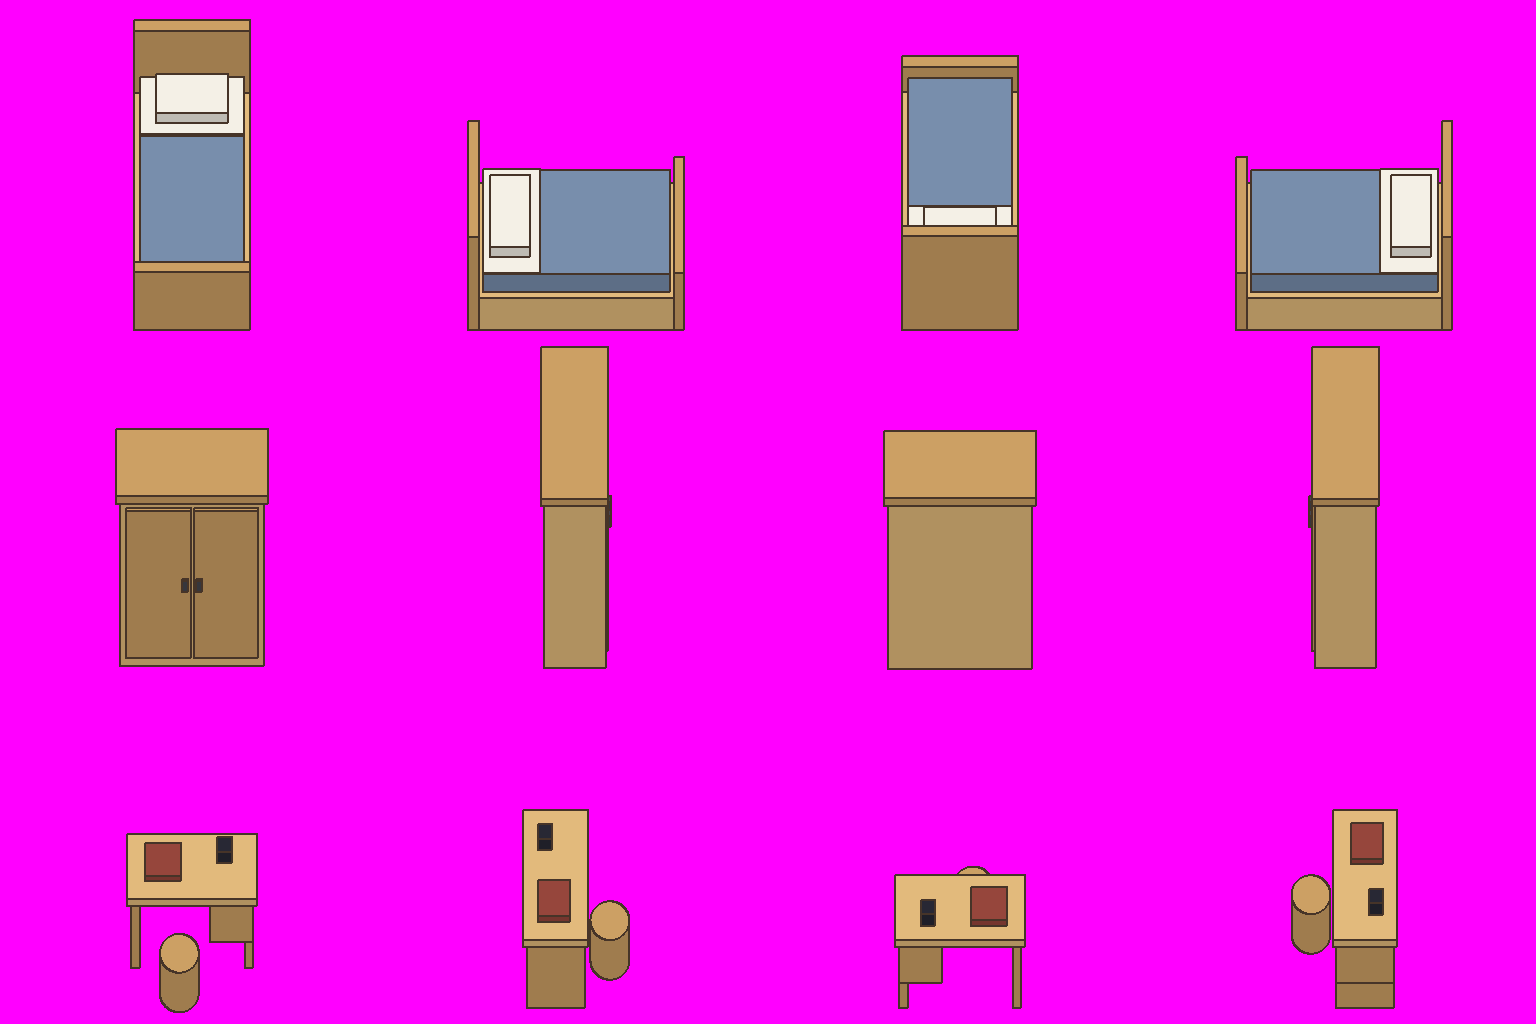
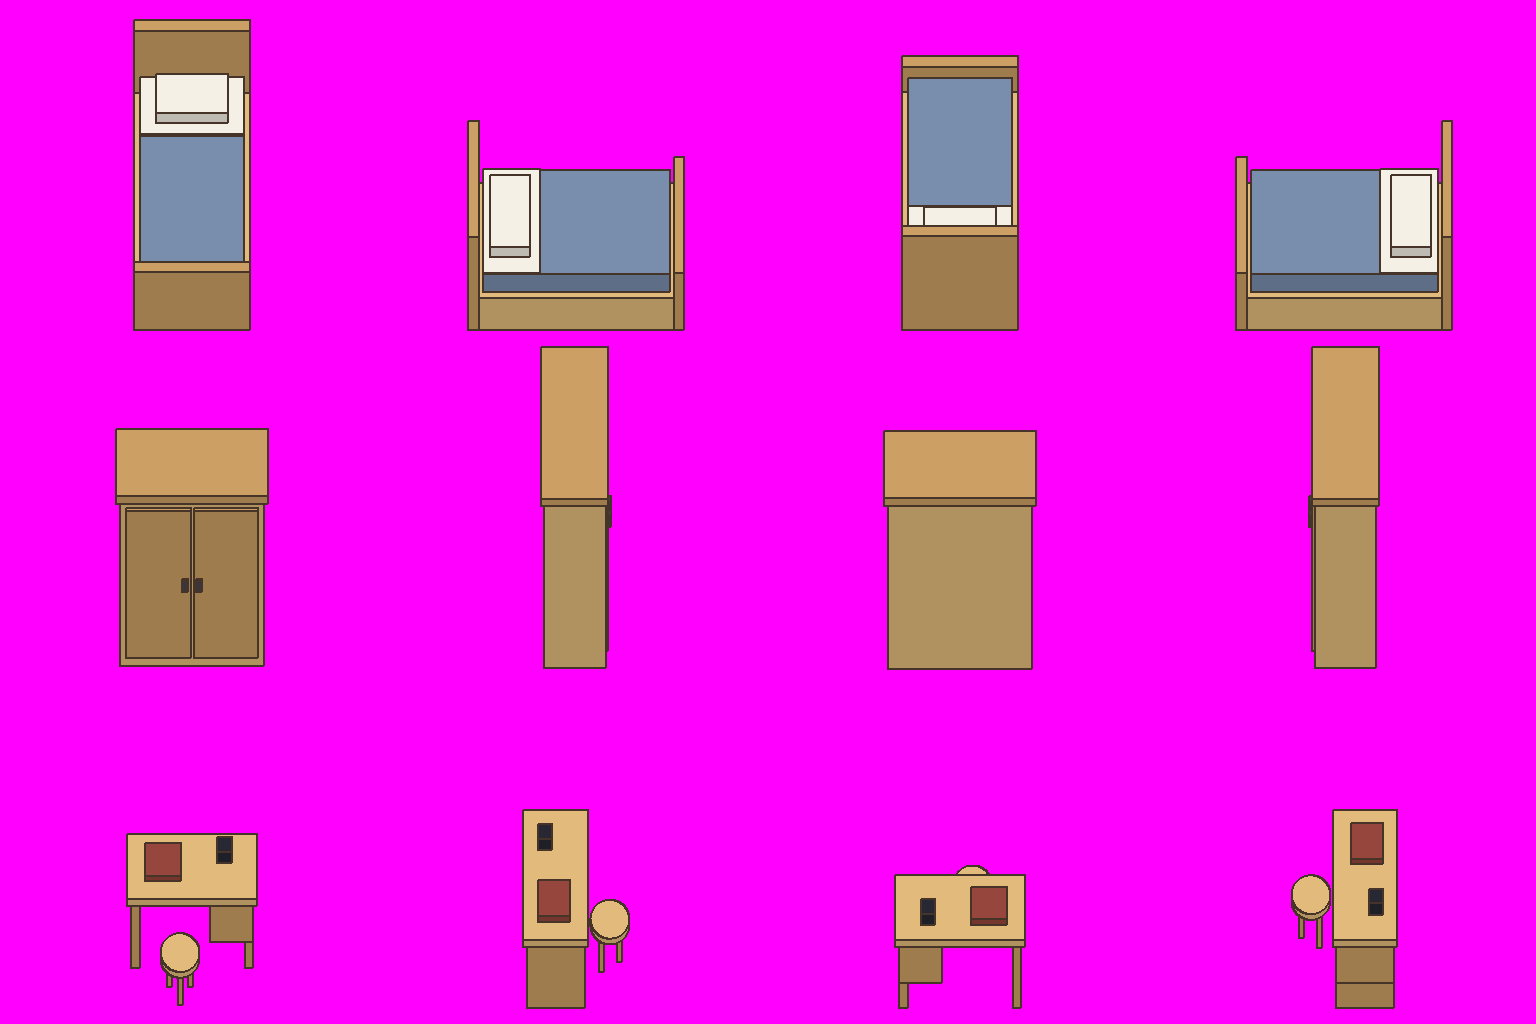
furniture: paint-over round works (overlap 0.93-0.98); sheets B and C accepted; guides A (real stool) and D (denser, bedside table) revised

diff --git a/furniture_guides.py b/furniture_guides.py
@@ -10,13 +10,14 @@ PINE = (226, 186, 124); PINE2 = (204, 160, 100); DARKW = (124, 76, 50); BLUE = (
 BEIGE = (214, 196, 160); BEIGE2 = (196, 176, 140); STONE = (160, 160, 158); BOOK = (150, 70, 60); INK = (40, 40, 52); CLAY = (190, 110, 70); LEAF = (90, 160, 80); RUG = (150, 110, 80); RUG2 = (176, 138, 100); TUBIN = (150, 112, 70); JAR = (200, 190, 170); JAR2 = (120, 150, 110)
 B = lambda u0, u1, v0, v1, z0, z1, c: ('box', u0, u1, v0, v1, z0, z1, c)          # u across the front, v from the back (0) to the front, z up
 CYL = lambda u, v, r, z0, z1, c: ('cyl', u, v, r, z0, z1, c)
+STOOL = lambda u, v: [B(u - 0.18, u - 0.11, v - 0.15, v - 0.08, 0, 0.48, PINE2), B(u + 0.11, u + 0.18, v - 0.15, v - 0.08, 0, 0.48, PINE2), B(u - 0.035, u + 0.035, v + 0.1, v + 0.17, 0, 0.48, PINE2), CYL(u, v, 0.27, 0.48, 0.56, PINE)]   # the same stool everywhere: a round seat on three legs
 PIECES = {
  'bed': (1.6, 3.0, [B(0, 1.6, 0.15, 2.85, 0, 0.45, PINE), B(0.08, 1.52, 0.2, 2.8, 0.45, 0.7, BLUE), B(0.08, 1.52, 0.2, 1.0, 0.7, 0.72, WHITE), B(0.3, 1.3, 0.3, 0.85, 0.72, 0.86, WHITE),
                     B(0, 1.6, 0, 0.15, 0, 1.3, PINE2), B(0, 1.6, 2.85, 3.0, 0, 0.8, PINE2)]),
  'wardrobe': (2.0, 0.9, [B(0, 2.0, 0, 0.86, 0, 2.3, PINE), B(-0.05, 2.05, -0.03, 0.9, 2.3, 2.4, PINE2), B(0.08, 0.98, 0.86, 0.9, 0.15, 2.2, PINE2), B(1.02, 1.92, 0.86, 0.9, 0.15, 2.2, PINE2),
                          B(0.86, 0.94, 0.9, 0.93, 1.1, 1.25, IRON), B(1.06, 1.14, 0.9, 0.93, 1.1, 1.25, IRON)]),
  'desk': (1.8, 0.9, [B(0, 1.8, 0, 0.9, 0.9, 1.0, PINE), B(0.05, 0.17, 0.05, 0.85, 0, 0.9, PINE2), B(1.15, 1.75, 0.05, 0.85, 0.35, 0.9, PINE2), B(1.63, 1.75, 0.05, 0.85, 0, 0.35, PINE2),
-                     B(0.25, 0.75, 0.2, 0.65, 1.0, 1.08, BOOK), B(1.25, 1.45, 0.2, 0.4, 1.0, 1.16, INK), CYL(0.72, 1.2, 0.27, 0, 0.55, PINE2)]),
+                     B(0.25, 0.75, 0.2, 0.65, 1.0, 1.08, BOOK), B(1.25, 1.45, 0.2, 0.4, 1.0, 1.16, INK)] + STOOL(0.73, 1.2)),
  'piano': (2.2, 0.9, [B(0, 2.2, 0, 0.5, 0, 1.6, DARKW), B(0, 2.2, 0.5, 0.9, 0, 0.92, DARKW), B(0.12, 2.08, 0.55, 0.86, 0.92, 0.95, WHITE), B(0.12, 2.08, 0.55, 0.66, 0.95, 0.98, INK),
                       B(0.75, 1.45, 1.05, 1.5, 0, 0.6, DARKW)]),
  'counter': (3.0, 0.9, [B(0, 3.0, 0.02, 0.86, 0, 1.0, PINE2), B(-0.04, 3.04, 0, 0.9, 1.0, 1.1, PINE), B(0.2, 1.0, 0.18, 0.72, 1.1, 1.12, STONE), B(0.5, 0.7, 0.04, 0.16, 1.1, 1.4, IRON2),
@@ -28,13 +29,14 @@ PIECES = {
  'sofa': (2.6, 1.1, [B(0, 2.6, 0, 0.32, 0, 1.0, BEIGE2), B(0, 0.3, 0.32, 1.1, 0, 0.75, BEIGE2), B(2.3, 2.6, 0.32, 1.1, 0, 0.75, BEIGE2), B(0.3, 2.3, 0.32, 1.1, 0, 0.42, BEIGE2), B(0.33, 1.28, 0.34, 1.08, 0.42, 0.52, BEIGE), B(1.32, 2.27, 0.34, 1.08, 0.42, 0.52, BEIGE)]),
  'bathtub': (2.4, 1.1, [B(0, 2.4, 0, 1.1, 0, 0.8, PINE2), B(0.14, 2.26, 0.14, 0.96, 0.8, 0.81, TUBIN), B(0, 2.4, 1.1, 1.13, 0.2, 0.28, IRON), B(0, 2.4, 1.1, 1.13, 0.55, 0.63, IRON), B(-0.03, 0, 0, 1.1, 0.2, 0.28, IRON), B(-0.03, 0, 0, 1.1, 0.55, 0.63, IRON), B(2.4, 2.43, 0, 1.1, 0.2, 0.28, IRON), B(2.4, 2.43, 0, 1.1, 0.55, 0.63, IRON), B(0, 2.4, -0.03, 0, 0.2, 0.28, IRON), B(0, 2.4, -0.03, 0, 0.55, 0.63, IRON)]),
  'toilet': (0.8, 1.1, [B(0.08, 0.72, 0, 0.34, 0, 0.9, WHITE), B(0.05, 0.75, 0, 0.36, 0.9, 0.95, STONE), B(0.2, 0.6, 0.34, 0.6, 0, 0.42, WHITE), CYL(0.4, 0.72, 0.3, 0.2, 0.45, WHITE), CYL(0.4, 0.72, 0.2, 0.45, 0.46, STONE)]),
+ 'bedside': (0.9, 0.7, [B(0.04, 0.86, 0.03, 0.66, 0, 0.82, PINE2), B(0, 0.9, 0, 0.7, 0.82, 0.9, PINE), B(0.12, 0.78, 0.66, 0.7, 0.45, 0.75, PINE), B(0.41, 0.49, 0.7, 0.73, 0.57, 0.64, IRON), CYL(0.3, 0.3, 0.1, 0.9, 1.25, WHITE)]),
  'washstand': (1.2, 0.7, [B(0.04, 1.16, 0.03, 0.66, 0, 1.0, PINE2), B(0, 1.2, 0, 0.7, 1.0, 1.08, PINE), CYL(0.6, 0.35, 0.28, 1.08, 1.2, WHITE), CYL(0.6, 0.35, 0.2, 1.2, 1.21, STONE), B(0.12, 0.62, 0.66, 0.7, 0.15, 0.85, PINE), B(0.72, 1.08, 0.7, 0.76, 0.3, 0.9, WHITE)]),
 }
 ONE = {'plant': (0.8, 0.8, [CYL(0.4, 0.4, 0.3, 0, 0.5, CLAY), CYL(0.4, 0.4, 0.4, 0.5, 1.1, LEAF)]),
-       'roundtable': (2.4, 2.4, [CYL(1.2, 0.3, 0.26, 0, 0.5, PINE2), CYL(0.3, 1.2, 0.26, 0, 0.5, PINE2), CYL(2.1, 1.2, 0.26, 0, 0.5, PINE2), CYL(1.2, 1.2, 0.16, 0, 0.82, PINE2), CYL(1.2, 1.2, 0.7, 0.82, 0.9, PINE), CYL(1.2, 2.1, 0.26, 0, 0.5, PINE2)]),
+       'roundtable': (2.4, 2.4, STOOL(1.2, 0.3) + STOOL(0.3, 1.2) + STOOL(2.1, 1.2) + [CYL(1.2, 1.2, 0.16, 0, 0.82, PINE2), CYL(1.2, 1.2, 0.7, 0.82, 0.9, PINE)] + STOOL(1.2, 2.1)),
        'rug': (3.0, 2.0, [B(0, 3.0, 0, 2.0, 0, 0, RUG), B(0.2, 2.8, 0.2, 1.8, 0, 0.01, RUG2), B(0.4, 2.6, 0.4, 1.6, 0.01, 0.02, RUG)]),
        'washtub': (1.2, 1.2, [CYL(0.6, 0.6, 0.6, 0, 0.65, PINE2), CYL(0.6, 0.6, 0.5, 0.65, 0.66, TUBIN), B(0.5, 1.0, 0.25, 0.33, 0.3, 1.15, STONE)])}
-SHEETS = {'A': ['bed', 'wardrobe', 'desk'], 'B': ['piano', 'counter', 'stove'], 'C': ['shelf', 'sofa', 'bathtub'], 'D': ['toilet', 'washstand', '*']}
+SHEETS = {'A': ['bed', 'wardrobe', 'desk'], 'B': ['piano', 'counter', 'stove'], 'C': ['shelf', 'sofa', 'bathtub'], 'D': ['toilet', 'washstand', 'bedside', '*']}   # D has four rows: a sparse sheet made the painter enlarge the pieces
 VIEWS = ['S', 'E', 'N', 'W']
 def tr(view, w, d, u, v):                                            # piece coordinates -> (across, depth toward the viewer)
     return {'S': (u, v), 'E': (v, w - u), 'N': (w - u, d - v), 'W': (d - v, u)}[view]
@@ -68,7 +70,7 @@ def render(parts, w, d, view):
     return Image.fromarray(np.dstack([col, a]), 'RGBA'), [round(xs1 - xs0, 2), round(ys1 - ys0, 2)]
 meta = {}
 for name, rows in SHEETS.items():
-    im = Image.new('RGBA', (W, H), MAG + (255,)); meta[name] = {}
+    CH = H // len(rows); im = Image.new('RGBA', (W, H), MAG + (255,)); meta[name] = {'rows': len(rows)}
     for r, piece in enumerate(rows):
         base = r * CH + CH - 8
         if piece == '*':
@@ -79,7 +81,7 @@ for name, rows in SHEETS.items():
         for c, v in enumerate(VIEWS):
             s, sz = render(parts, w, d, v); x = c * CW + (CW - s.width) // 2; assert s.height <= CH - 4, (piece, v, s.height); im.alpha_composite(s, (x, base - s.height)); meta[name][piece]['boxes'].append([x, base - s.height, x + s.width, base]); meta[name][piece]['tiles'].append(sz)
     im.convert('RGB').save(f'2_guide-{name}.png')
-json.dump({'px_per_tile': PX, 'cell': [CW, CH], 'columns': ['facing viewer', 'facing right', 'facing away', 'facing left'], 'sheets': meta}, open('furniture_guides.json', 'w'))
+json.dump({'px_per_tile': PX, 'cell_w': CW, 'columns': ['facing viewer', 'facing right', 'facing away', 'facing left'], 'sheets': meta}, open('furniture_guides.json', 'w'))
 S = Image.new('RGB', (W + 10, H * 2 + 10), (20, 20, 20))
 for i, n in enumerate('AB'): S.paste(Image.open(f'2_guide-{n}.png'), (0, i * (H + 10)))
 S.resize((1152, int((H * 2 + 10) * 1152 / (W + 10)))).save('_AB.png')

diff --git a/HANDOFF_S13.md b/HANDOFF_S13.md
@@ -5,6 +5,7 @@
 ## สถานะ
 - เกม: https://phoneyjung.github.io/Leah-PP/ · โหมด GM: `?gm` · repo: https://github.com/phoneyjung/Leah-PP · อัปไฟล์: https://github.com/phoneyjung/Leah-PP/upload/main
 - **พื้นใหม่ไม่มีดอกไม้ (อยู่ในรุ่น 1.17 ที่อัป 4 ต.ค.):** เจ้าของส่งภาพ 5 ภาพ เลือก 4 (`art-G9b-ground-*.png`) · หญ้าเรียบ · ดอกไม้เป็นชิ้นแยก 168 ดอก 60 กลุ่ม วางตามกติกา (ใกล้ต้นไม้ พุ่ม รั้ว เป็นหลัก) · กอหญ้าใช้สีตามสนามหญ้าอัตโนมัติ · แปลงดินของเราวางทับแปลงที่ AI วาด (ของ AI มีรอยเส้นที่ขอบล่าง) · ภาพพื้นของเกมเหลือ 713 KB (เดิม 973)
+- **เฟอร์นิเจอร์รอบวาดทับบล็อก: ได้ผล (4 ต.ค.)** เจ้าของส่ง 20 ภาพ · การทับรูปทรงในภาพนำ: แผ่น A 0.974–0.979 · B 0.926–0.949 (ภาพหนึ่ง 0.844) · C 0.913–0.967 · D 0.18–0.24 (AI ขยายชิ้นและจัดวางใหม่ แต่มุมกล้องถูก) · วางในห้องจริงแล้วองศาเข้ากับห้อง · **คะแนน (องศา / สอดคล้อง / สวย / อื่น ๆ → เฉลี่ย):** A 9.8 / 9.7 / 8.8 / 9.5 → 9.45 ไม่ผ่าน (สตูลของโต๊ะกลายเป็นท่อนซุงเพราะภาพนำเป็นทรงกระบอกตัน) · **B 9.5 / 9.7 / 9.5 / 9.3 → 9.5 ผ่าน** เก็บ `art-furniture-plain-B.png` · **C 9.7 / 9.6 / 9.5 / 9.5 → 9.6 ผ่าน** เก็บ `art-furniture-plain-C.png` (โซฟาเป็นโครงไม้เบาะผ้า ด้านหลังเป็นไม้ สอดคล้องกันทุกทิศ) · D ไม่ผ่าน (ขนาดไม่ตรงภาพนำ) · **แก้ภาพนำ:** A ใส่สตูลจริง (ที่นั่งกลม 3 ขา `STOOL`) · D เพิ่มโต๊ะข้างเตียงเป็น 4 แถว (สูงแถวละ 256) ให้แผ่นแน่น และสตูลรอบโต๊ะกลมใช้แบบเดียวกัน · ส่งพรอมป์ A และ D ใหม่ รอภาพ · ชิ้นใหม่ในระบบ: โต๊ะข้างเตียง 0.9×0.7×0.9
 - **เกณฑ์ของเจ้าของสำหรับเฟอร์นิเจอร์ (4 ต.ค.): ต้องได้ 9.5 ขึ้นไป** ดูที่ (1) องศาตรงกับฉาก (2) แต่ละทิศสอดคล้องกัน (3) สวย (4) อื่น ๆ · ไม่ผ่าน = ทำพรอมป์ใหม่ · **รอบกล่องเปล่า (20 ภาพ แผ่น A–D แผ่นละ 5) ไม่ผ่านทุกภาพ:** AI ไม่วาดทับกล่อง (พิกเซลที่วาดอยู่ในกล่องแค่ 33–44%) และวาดมุมต่ำเหมือนชุดแรก: เตียงหันหาคนดู 1 : 1.10–1.37 (ภาพนำ 1 : 2.3) · หน้าโต๊ะกลมลึก/กว้าง 0.44–0.53 = ราว 26–32° (ต้องเป็นวงกลม) · ความสอดคล้องระหว่างทิศดี (9) สวย (9) องศา (4) · สาเหตุ: กล่องไม่มีรายละเอียดให้ยึด และแนบแผ่นเฟอร์นิเจอร์มุมต่ำเป็นแบบหน้าตา AI จึงลอกมุมกล้องจากแผ่นนั้น · **รอบใหม่:** `furniture_guides.py` ปั้นแต่ละชิ้นจากบล็อกเล็ก ๆ แล้ววาดด้วยตัววาดมุมเฉียงที่มีบัฟเฟอร์ความลึก (x = แนวขวาง · y = ความลึก − ความสูง) ทั้ง 4 ทิศ → ภาพนำ `furniture-guide-A..D.png` ดูเป็นเฟอร์นิเจอร์ในมุมกล้องของห้องแล้ว · 72 px ต่อช่อง (เกม 32 → ×0.444) · ไม่แนบแผ่นเฟอร์นิเจอร์เก่าอีก · พรอมป์สั่งเป็นงานวาดทับ ห้ามวาดใหม่จากมุมอื่น · `furniture-camera-preview.jpg` = รูปทรงบล็อกวางในห้องจริง ยืนยันว่ามุมกล้องนี้เข้ากับห้อง · กล่องของแต่ละชิ้นและขนาดเป็นช่องอยู่ใน `furniture_guides.json`
 - **เฟอร์นิเจอร์: เจ้าของตัดสิน (4 ต.ค.)** (1) **4 มุมทุกชิ้น** (2) **เจนใหม่ทั้งชุด มุมก้มสูงขึ้น** เพราะชุดแรกไม่ผ่านเรื่ององศา (เจ้าของ: "ดูองศาของเฟอร์ด้วย ถ้าไม่เข้ากับห้องก็ไม่ผ่าน") (3) ของที่เคยวางในบ้านแบบเก่า **ลบทิ้ง เริ่มใหม่** · **ผลตรวจองศาชุดแรก** (`art-furniture-plain.png` วางในห้องจริง สเกลเดียว 0.47): พื้นห้องวาดแบบมองตรงจากบน (กระเบื้องจัตุรัส) แต่เฟอร์นิเจอร์มองจากราว 33° (วัดจากหน้าโต๊ะกลม ลึก/กว้าง 0.55) · ตู้ เคาน์เตอร์ เตา ชั้น เปียโน ผ่าน · เตียงไม่ผ่าน (กว้าง:ยาว 1:1.1 ควรราว 1:2) · **กติกามุมกล้องของเฟอร์นิเจอร์ (ใหม่):** ด้านบนของชิ้นวาดเต็มความลึกแบบมองจากบน และใต้ลงมาเป็นด้านที่หันหาคนดูเต็มความสูง ไม่เห็นด้านอื่น ไม่มีเส้นเฉียง = กติกาเดียวกับห้อง · **ภาพนำ 4 แผ่น** `furniture-guide-A..D.png` (`furniture_guides.py` · ขนาดกล่องและตารางใน `furniture_guides.json`): 74 px ต่อช่อง (เกม 32 → ย่อ ×0.432) · แผ่นละ 3 แถว × 4 คอลัมน์ · คอลัมน์ = หันหาคนดู · หันขวา · หันหลัง · หันซ้าย · A: เตียง 1.6×3.0×0.7 ตู้เสื้อผ้า 2.0×0.9×2.4 โต๊ะ 1.8×0.9×1.0 · B: เปียโน 2.2×0.9×1.6 เคาน์เตอร์ 3.0×0.9×1.1 เตา 1.1×0.9×1.1 · C: ชั้น 2.0×0.6×1.4 โซฟา 2.6×1.1×1.0 อ่างอาบน้ำ 2.4×1.1×0.8 · D: โถส้วม 0.8×1.1×0.9 อ่างล้างหน้า 1.2×0.7×1.1 + แถวชิ้นเดี่ยว (ต้นไม้ โต๊ะกลม+สตูล พรม 3×2 ถังซักผ้า) (หน่วย: กว้าง×ลึก×สูง เป็นช่อง) · ของกลมและพรมมีภาพเดียว เกมใช้ซ้ำทุกทิศ · **วิธีนี้ยังไม่เคยลองกับเฟอร์นิเจอร์** แนะนำเจ้าของรันแผ่น A ก่อน · พรอมป์ชุดสวย (เฟอร์นิเจอร์ 12 ชิ้น และห้องน้ำ/ครัว 12 ชิ้น) ที่ส่งไปก่อน **ยกเลิก** เพราะเป็นมุมหน้าเดียวมุมต่ำ จะทำใหม่ด้วยวิธีเดียวกันเมื่อชุดธรรมดาผ่าน
 - **ได้ภาพห้องเปล่าขั้น 1 และเฟอร์นิเจอร์ชุดธรรมดาแล้ว (4 ต.ค.) ยังไม่ได้ใส่เกม:** ห้อง 5 ภาพ เลือก `art-room-L1.png` (ผนังทับผัง 0.86 ดีที่สุด หน้าต่าง 6 บานตรงตำแหน่งผัง) · เฟอร์นิเจอร์ 5 แผ่น ทุกแผ่นครบ 15 ชิ้น เลือก `art-furniture-plain.png` (คมที่สุด) ลำดับชิ้น: เตียง ตู้เสื้อผ้า โต๊ะ+สตูล เปียโน ต้นไม้ / เคาน์เตอร์ครัว เตา โต๊ะกลม+สตูล โซฟา พรม / ชั้น อ่างไม้ โถส้วม อ่างล้างหน้า ถังซักผ้า · **เจ้าของถาม: เฟอร์นิเจอร์ต้องทำมุมอื่นไหมเพราะหมุนได้** ข้อเท็จจริงจากโค้ด: โหมดจัดบ้านมีแค่กลับซ้ายขวา (`DEC.tool==='flip'` → `f.fl`) ไม่มีหมุน 4 ทิศ · ถามเจ้าของแล้วว่าจะเอาแบบไหน (มุมเดียว / เพิ่มมุมข้างของชิ้นใหญ่ / 4 มุม) และของในเซฟเดิมจะทำอย่างไร รอคำตอบก่อนเขียนโค้ดฉากในบ้าน
